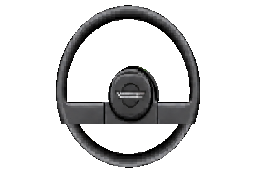
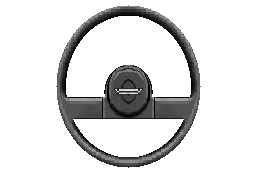
Corvette: volante gerado da arte nova do interior, simétrico
tools/ref/wheel_sprite.py recorta aro, miolo e barra direto da arte, no tamanho e
centro que a cabine já usa, contorna a borda de baixo da barra e espelha a metade
esquerda (o volante anterior tinha miolo e barra puxados para a direita).

Claude-Session: https://claude.ai/code/session_01MLD9VR7gkmY4w6a9beZcp6

Changed region(s): [[0.2188, 0.0294, 0.7812, 1.0]]

diff --git a/tools/ref/wheel_sprite.py b/tools/ref/wheel_sprite.py
@@ -1,0 +1,58 @@
+"""Gera o sprite de um volante direto da arte do interior, no tamanho e centro que a
+cabine do jogo já usa, e espelha a metade esquerda (volante simétrico).
+
+Uso: python3 tools/ref/wheel_sprite.py <arte> <saida.png> <config>
+Configurações abaixo: aro (centro e raios na arte), miolo e barra, e onde ele fica no jogo.
+"""
+import sys
+
+import cv2
+import numpy as np
+from PIL import Image
+
+CFG = {
+    # Corvette C4: aro, miolo redondo com o emblema e a barra de um lado ao outro do aro
+    'zr1': {
+        'center': (583.5, 465), 'outer': (323, 322), 'inner': (280, 282),
+        'hub': (583.5, 487, 108), 'bar': (250, 506, 920, 594),
+        'pivot': (128, 86), 'rx': 72, 'ry': 81, 'size': (256, 170),
+    },
+}
+
+src, out, key = sys.argv[1], sys.argv[2], sys.argv[3]
+c = CFG[key]
+img = cv2.cvtColor(cv2.imread(src), cv2.COLOR_BGR2RGB)
+(cx, cy), (ao, bo), (ai, bi) = c['center'], c['outer'], c['inner']
+hx, hy, hr = c['hub']
+bx0, by0, bx1, by1 = c['bar']
+pxw, pxh = ao / c['rx'], bo / c['ry']
+W, H = c['size']
+px, py = c['pivot']
+spr = np.zeros((H, W, 4), np.uint8)
+for Y in range(H):
+    for X in range(W):
+        sx, sy = cx + (X - px) * pxw, cy + (Y - py) * pxh
+        qo = ((sx - cx) / ao) ** 2 + ((sy - cy) / bo) ** 2
+        qi = ((sx - cx) / ai) ** 2 + ((sy - cy) / bi) ** 2
+        rim = qo <= 1 and qi >= 1
+        hub = (sx - hx) ** 2 + (sy - hy) ** 2 <= hr * hr
+        bar = bx0 <= sx <= bx1 and by0 <= sy <= by1 and qo <= 1
+        if rim or hub or bar:
+            ix, iy = int(sx), int(sy)
+            if 0 <= ix < img.shape[1] and 0 <= iy < img.shape[0]:
+                spr[Y, X, :3] = img[iy, ix]
+                spr[Y, X, 3] = 255
+# contorno escuro onde o miolo/barra termina sobre a abertura (o recorte da arte não pega a linha)
+op = spr[..., 3] > 0
+edge = op[:-1] & ~op[1:]
+for Y, X in zip(*np.where(edge)):
+    sx, sy = cx + (X - px) * pxw, cy + (Y - py) * pxh
+    if ((sx - cx) / ai) ** 2 + ((sy - cy) / bi) ** 2 < 0.97:
+        spr[Y, X, :3] = (20, 20, 22)
+# simetria: a metade direita é o espelho da esquerda
+for X in range(px + 1, W):
+    m = 2 * px - X
+    if 0 <= m < W:
+        spr[:, X] = spr[:, m]
+Image.fromarray(spr, 'RGBA').save(out)
+print(out, (W, H))
